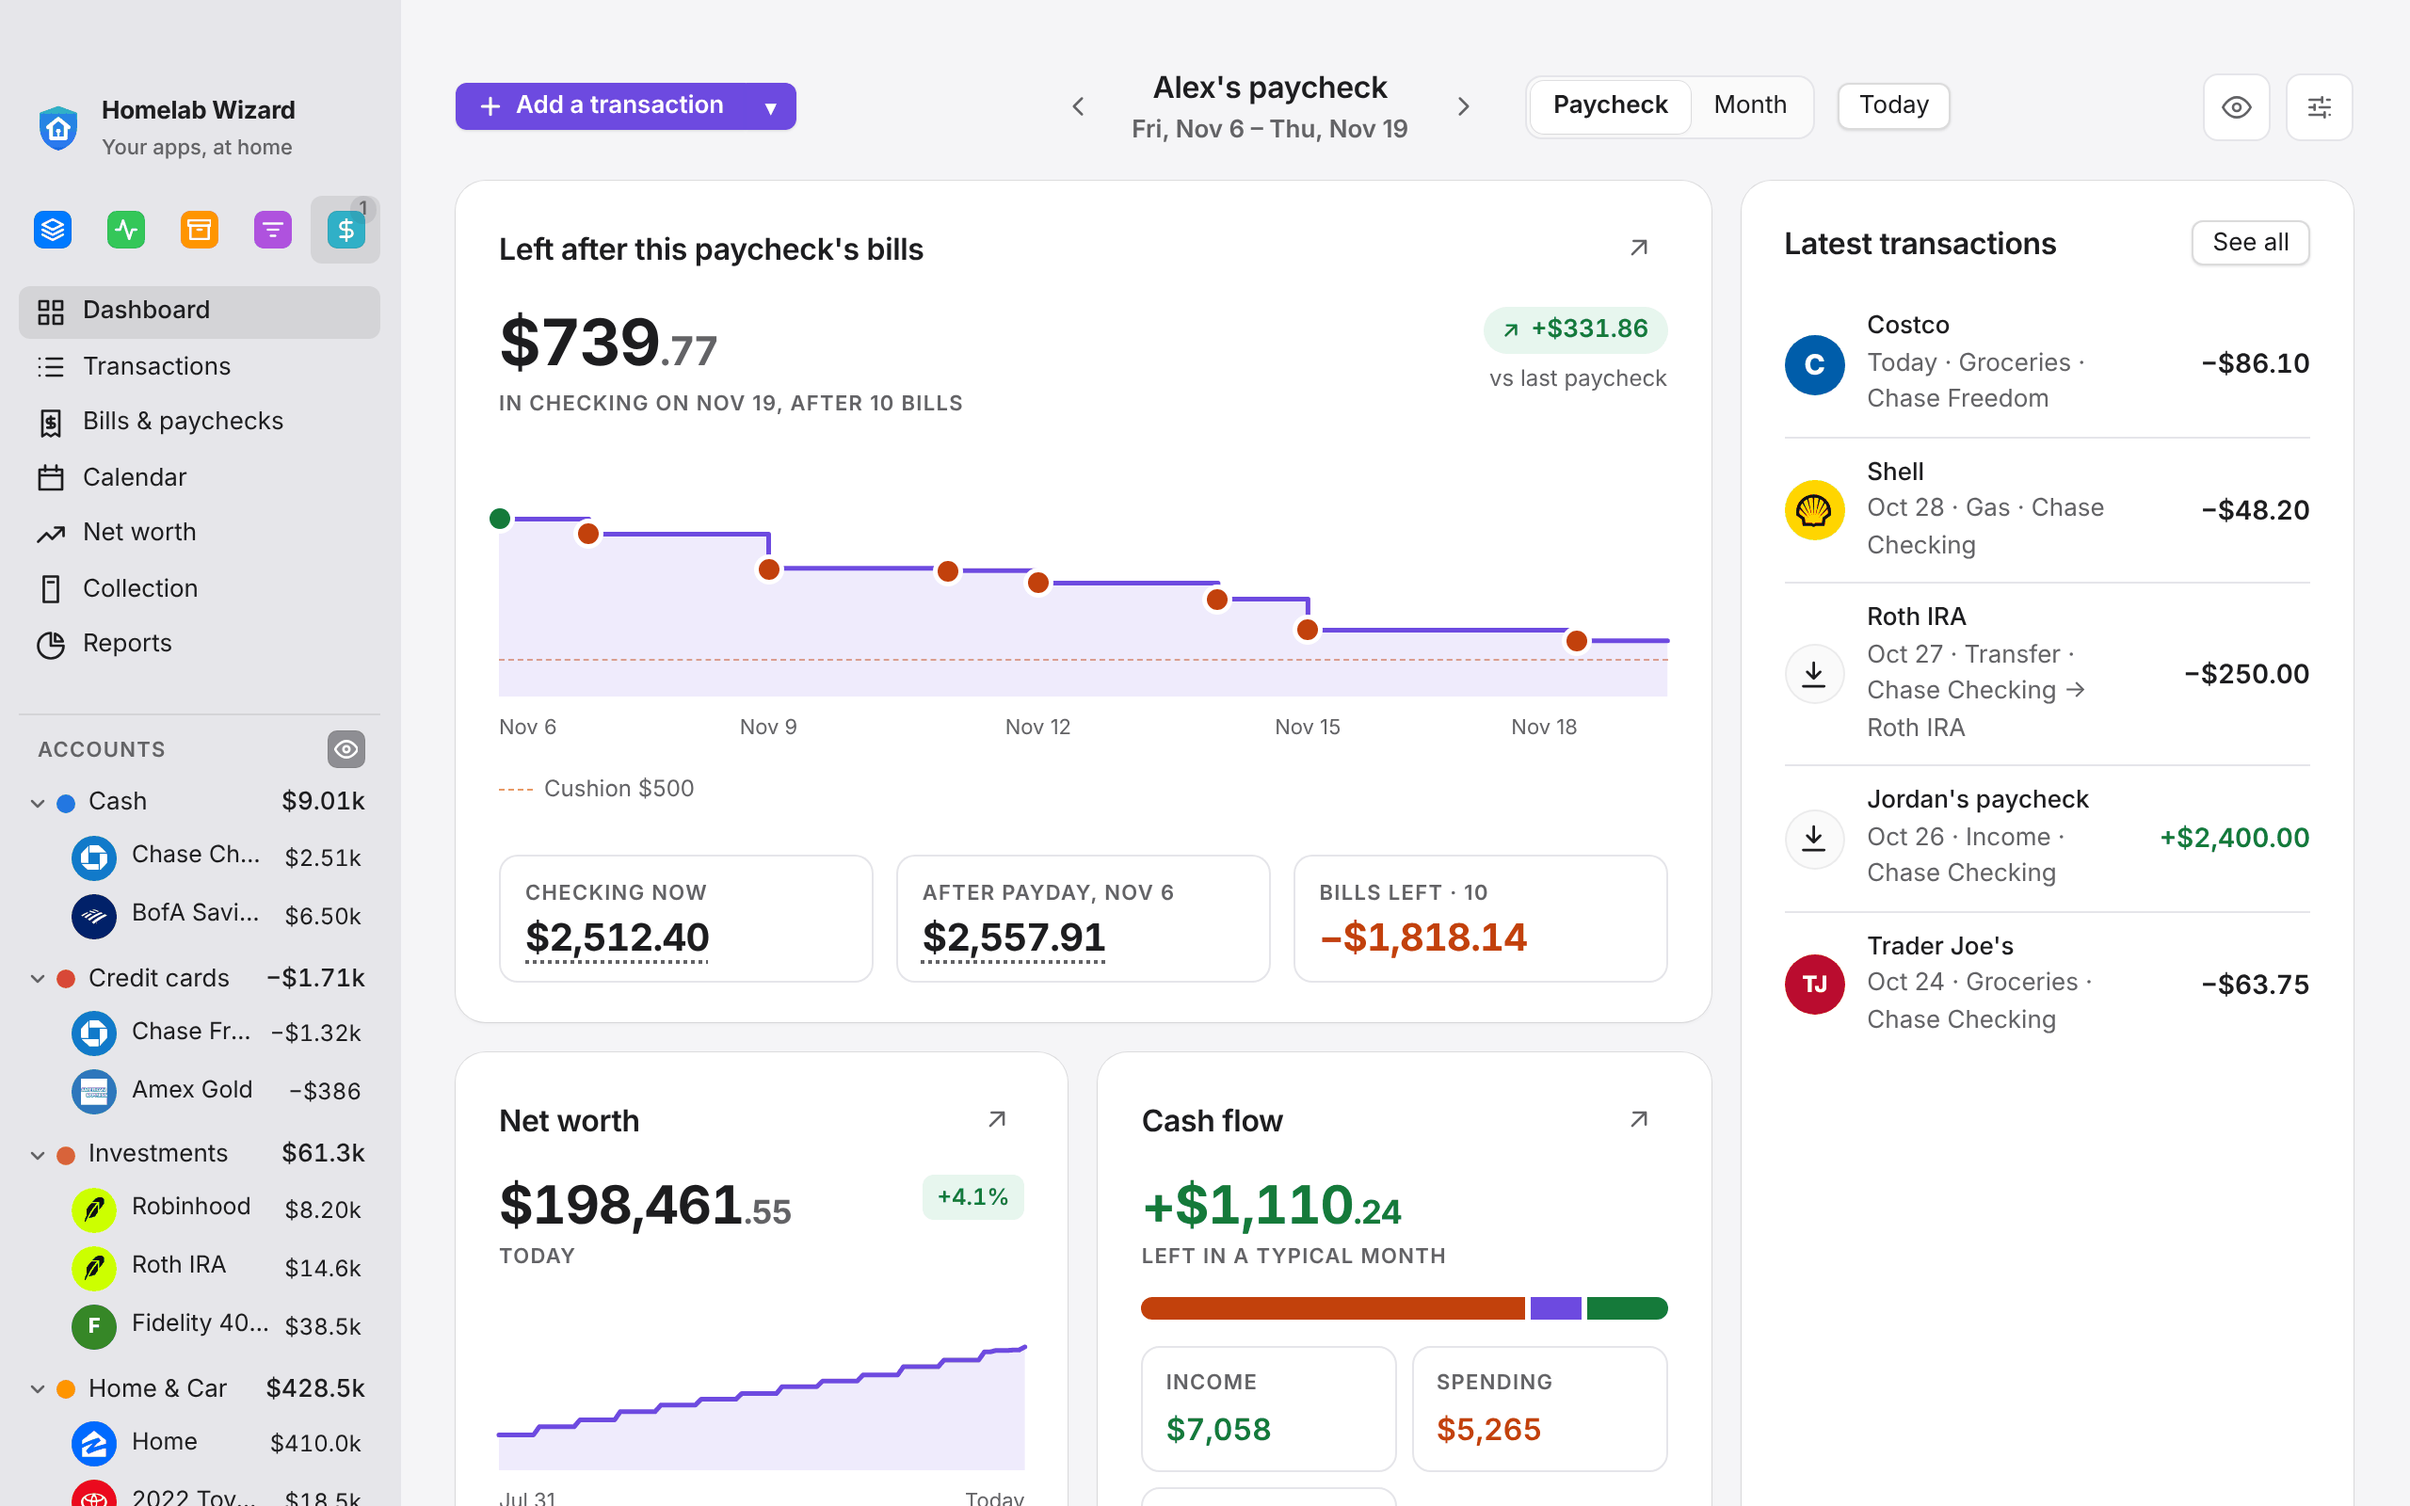
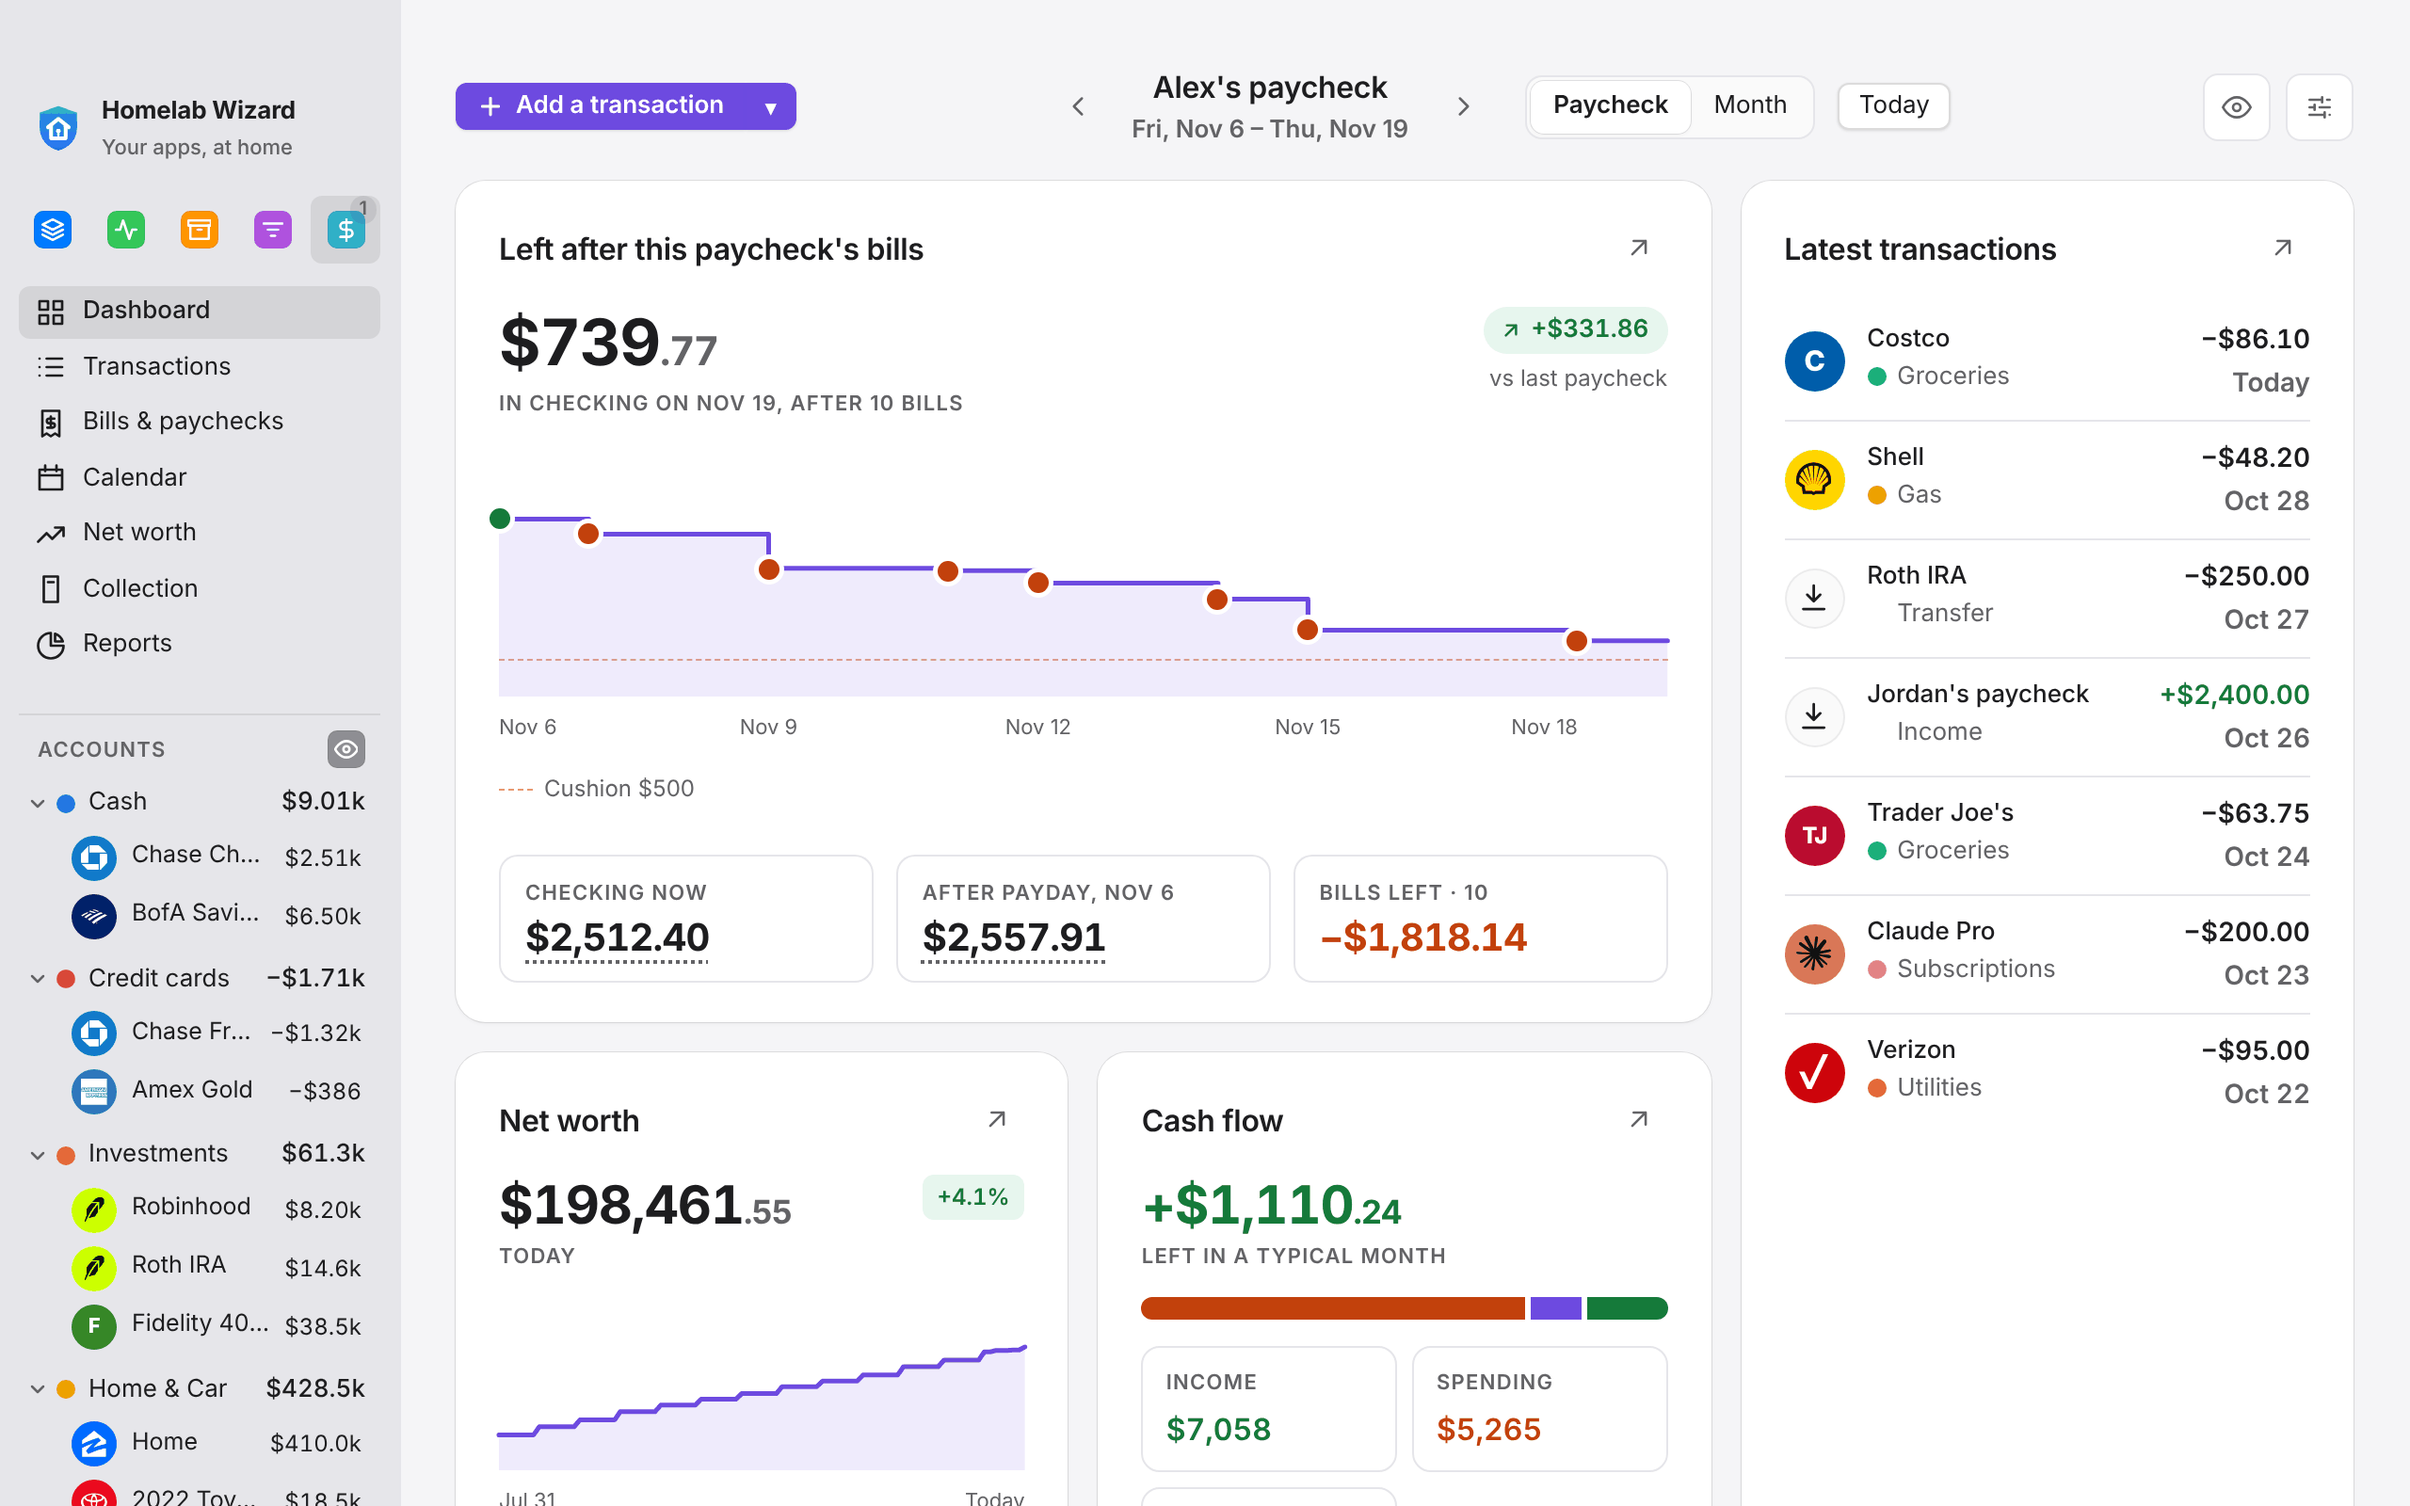
Dashboard: Latest transactions in one-line rows (the category's dot, the day under the amount), nine of them, and its ↗
Claude-Session: https://claude.ai/code/session_01MiSTxseDPUYYgrtQvknXsP

diff --git a/web/dist/app.js b/web/dist/app.js
@@ -15412,9 +15412,32 @@
   function latest(txs, n3 = latestCount) {
     return txs.map((t3, i3) => ({ t: t3, i: i3 })).sort((a3, b2) => b2.t.date.localeCompare(a3.t.date) || b2.i - a3.i).slice(0, n3).map((x3) => x3.t);
   }
-  function TxRow({ t: t3, v: v3, L: L2, edit, end }) {
+  function TxRow({ t: t3, v: v3, L: L2, edit, end, compact: compact2 }) {
     const a3 = L2.account[t3.account];
     const what2 = t3.splits?.length ? t3.splits.map((sp) => sp.category).join(", ") : t3.category || (t3.to ? "Transfer" : "No category");
+    const day3 = t3.date === v3.today ? "Today" : dayShort(t3.date);
+    const amount = /* @__PURE__ */ u3(Amount, { value: t3.amount, sign: t3.amount > 0, tone: t3.amount > 0 && !t3.to ? "in" : "", form: "full", currency: a3?.currency });
+    if (compact2) {
+      return /* @__PURE__ */ u3(
+        Row,
+        {
+          lead: /* @__PURE__ */ u3(TxMark, { t: t3, categories: v3.categories }),
+          title: txTitle(t3, L2),
+          sub: /* @__PURE__ */ u3("span", { class: "fx-txcat", children: [
+            (t3.splits?.length || t3.category) && /* @__PURE__ */ u3(Dot, { color: categoryHue(t3.splits?.length ? t3.splits[0].category : t3.category, v3.categories) }),
+            what2
+          ] }),
+          end,
+          when: /* @__PURE__ */ u3("span", { class: "fx-whenstack", children: [
+            amount,
+            /* @__PURE__ */ u3("span", { class: "fx-sub", children: day3 })
+          ] }),
+          whenPlain: true,
+          onOpen: edit ? () => edit("transaction", t3.id) : void 0,
+          openLabel: edit ? "edit" : void 0
+        }
+      );
+    }
     return /* @__PURE__ */ u3(
       Row,
       {
@@ -15429,10 +15452,10 @@
       }
     );
   }
-  function LatestWidget({ v: v3, L: L2, ledger, edit, all }) {
-    const list = latest(ledger?.transactions || []);
+  function LatestWidget({ v: v3, L: L2, ledger, edit, all, count: count2 = latestCount }) {
+    const list = latest(ledger?.transactions || [], count2);
     if (!list.length) return null;
-    return /* @__PURE__ */ u3(Widget, { title: "Latest transactions", kind: "fx-latest", open: all, seeAll: true, openLabel: "Open Transactions", actions: all && /* @__PURE__ */ u3("button", { type: "button", class: "small", onClick: all, children: "See all" }), children: /* @__PURE__ */ u3(Rows, { kind: "fx-rows", children: list.map((t3) => /* @__PURE__ */ u3(TxRow, { t: t3, v: v3, L: L2, edit }, t3.id)) }) });
+    return /* @__PURE__ */ u3(Widget, { title: "Latest transactions", kind: "fx-latest", open: all, openLabel: "Open Transactions", children: /* @__PURE__ */ u3(Rows, { kind: "fx-rows", children: list.map((t3) => /* @__PURE__ */ u3(TxRow, { t: t3, v: v3, L: L2, edit, compact: true }, t3.id)) }) });
   }
 
   // web/src/finances/Loan.tsx
@@ -18301,7 +18324,7 @@ ${pays}
         { id: "prices", title: "New prices", width: "full", node: /* @__PURE__ */ u3(PricesWidget, { v: v3, L: L2, keep: keep3 }) },
         { id: "averages", title: "Bills' averages", width: "full", node: /* @__PURE__ */ u3(AveragesWidget, { v: v3, L: L2, keep: keep3 }) },
         { id: "now", title: "Left after this paycheck's bills", width: "full", node: /* @__PURE__ */ u3(LeadWidget, { v: v3, L: L2, sel: p3 ? picked : 0, open: openPay }) },
-        { id: "latest", title: "Latest transactions", width: "third", node: !read && /* @__PURE__ */ u3(LatestWidget, { v: v3, L: L2, ledger, edit, all: openTransactions }) },
+        { id: "latest", title: "Latest transactions", width: "third", node: !read && /* @__PURE__ */ u3(LatestWidget, { v: v3, L: L2, ledger, edit, all: openTransactions, count: 9 }) },
         { id: "past", title: "What happened", width: "full", node: read && /* @__PURE__ */ u3(PastWidget, { v: v3, L: L2, past: read, title: month3?.when === "now" ? "So far this month" : void 0, ledger, edit }) },
         { id: "planned", title: "The plan", width: "full", node: month3 && month3.when !== "past" && (() => {
           const from2 = month3.when === "now" ? isoDay(new Date(parseDay(v3.today).getTime() + 864e5)) : month3.start;

diff --git a/web/src/finances/widgets/Latest.tsx b/web/src/finances/widgets/Latest.tsx
@@ -8,6 +8,8 @@ import { Amount } from '../ui/Amount';
 import { Widget } from '../ui/Widget';
 import { TxMark, txTitle } from '../Transactions';
 import { dayShort, type Lookup } from '../money';
+import { Dot } from '../ui/Legend';
+import { categoryHue } from '../hues';
 
 /** How many it lists. */
 export const latestCount = 5;
@@ -18,22 +20,33 @@ export function latest(txs: finance.Transaction[], n = latestCount): finance.Tra
 }
 
 /** One transaction's row, as the Dashboard lists them: its mark, payee, day, category and account, and amount; it opens its form where it may. */
-export function TxRow({ t, v, L, edit, end }: { t: finance.Transaction; v: finance.View; L: Lookup; edit?: (what: 'transaction', id: string) => void; end?: ComponentChildren }) {
+export function TxRow({ t, v, L, edit, end, compact }: { t: finance.Transaction; v: finance.View; L: Lookup; edit?: (what: 'transaction', id: string) => void; end?: ComponentChildren;
+  /** The Dashboard's one-line form (docs/images/redesign/computer-finances.png): the category with its colour under the payee, the day under the amount. */
+  compact?: boolean }) {
   const a = L.account[t.account];
   const what = t.splits?.length ? t.splits.map((sp) => sp.category).join(', ') : t.category || (t.to ? 'Transfer' : 'No category');
+  const day = t.date === v.today ? 'Today' : dayShort(t.date);
+  const amount = <Amount value={t.amount} sign={t.amount > 0} tone={t.amount > 0 && !t.to ? 'in' : ''} form="full" currency={a?.currency} />;
+  if (compact) {
+    return <Row lead={<TxMark t={t} categories={v.categories} />} title={txTitle(t, L)}
+      sub={<span class="fx-txcat">{(t.splits?.length || t.category) && <Dot color={categoryHue(t.splits?.length ? t.splits[0].category : t.category, v.categories)} />}{what}</span>}
+      end={end} when={<span class="fx-whenstack">{amount}<span class="fx-sub">{day}</span></span>} whenPlain
+      onOpen={edit ? () => edit('transaction', t.id) : undefined} openLabel={edit ? 'edit' : undefined} />;
+  }
   return <Row lead={<TxMark t={t} categories={v.categories} />} title={txTitle(t, L)}
     sub={`${t.date === v.today ? 'Today' : dayShort(t.date)} · ${what} · ${t.to ? `${a?.name || t.account} → ${L.account[t.to]?.name || t.to}` : a?.name || t.account}`}
     end={end} when={<Amount value={t.amount} sign={t.amount > 0} tone={t.amount > 0 && !t.to ? 'in' : ''} form="full" currency={a?.currency} />} whenPlain
     onOpen={edit ? () => edit('transaction', t.id) : undefined} openLabel={edit ? 'edit' : undefined} />;
 }
 
-export function LatestWidget({ v, L, ledger, edit, all }: { v: finance.View; L: Lookup; ledger?: finance.Ledger | null; edit?: (what: 'transaction', id: string) => void; all?: () => void }) {
-  const list = latest(ledger?.transactions || []);
+export function LatestWidget({ v, L, ledger, edit, all, count = latestCount }: { v: finance.View; L: Lookup; ledger?: finance.Ledger | null; edit?: (what: 'transaction', id: string) => void; all?: () => void;
+  /** How many (the computer's Dashboard: nine, beside the lead card down two rows). */ count?: number }) {
+  const list = latest(ledger?.transactions || [], count);
   if (!list.length) return null;
   return (
-    <Widget title="Latest transactions" kind="fx-latest" open={all} seeAll openLabel="Open Transactions" actions={all && <button type="button" class="small" onClick={all}>See all</button>}>
+    <Widget title="Latest transactions" kind="fx-latest" open={all} openLabel="Open Transactions">
       <Rows kind="fx-rows">
-        {list.map((t) => <TxRow key={t.id} t={t} v={v} L={L} edit={edit} />)}
+        {list.map((t) => <TxRow key={t.id} t={t} v={v} L={L} edit={edit} compact />)}
       </Rows>
     </Widget>
   );

diff --git a/web/src/finances/Overview.tsx b/web/src/finances/Overview.tsx
@@ -200,7 +200,7 @@ export function Overview({ v, L, sel, pick, add, edit, setSince, keep, ledger, o
         { id: 'prices', title: 'New prices', width: 'full', node: <PricesWidget v={v} L={L} keep={keep} /> },
         { id: 'averages', title: "Bills' averages", width: 'full', node: <AveragesWidget v={v} L={L} keep={keep} /> },
         { id: 'now', title: "Left after this paycheck's bills", width: 'full', node: <LeadWidget v={v} L={L} sel={p ? picked : 0} open={openPay} /> },
-        { id: 'latest', title: 'Latest transactions', width: 'third', node: !read && <LatestWidget v={v} L={L} ledger={ledger} edit={edit} all={openTransactions} /> },
+        { id: 'latest', title: 'Latest transactions', width: 'third', node: !read && <LatestWidget v={v} L={L} ledger={ledger} edit={edit} all={openTransactions} count={9} /> },
         { id: 'past', title: 'What happened', width: 'full', node: read && <PastWidget v={v} L={L} past={read} title={month?.when === 'now' ? 'So far this month' : undefined} ledger={ledger} edit={edit} /> },
         { id: 'planned', title: 'The plan', width: 'full', node: month && month.when !== 'past' && (() => {
           const from = month.when === 'now' ? isoDay(new Date(parseDay(v.today).getTime() + 864e5)) : month.start;

diff --git a/web/dist/style.css b/web/dist/style.css
@@ -1798,6 +1798,9 @@ button.kindrow:focus-visible { outline:2px solid var(--accent); outline-offset:-
   .fx-board.fx-dash > .fx-latest { grid-row:auto; }
 }
 @container (max-width: 600px) { .fx-board.fx-dash { grid-template-columns:minmax(0, 1fr); } .fx-board.fx-dash > .fx-widget { grid-column:auto; } }
+/* Latest transactions' one-line rows (Latest.tsx TxRow compact): the category's dot and name, the day under the amount. */
+.fx-txcat { display:inline-flex; align-items:center; gap:6px; min-width:0; }
+.fx-whenstack { display:flex; flex-direction:column; align-items:flex-end; gap:2px; white-space:nowrap; }
 /* The cards a page took from the Dashboard, above its own (Finances.tsx PageCards). */
 .fx-pagecards { margin-bottom:var(--fin-gap); }
 @container (max-width: 760px) { .fx-widget.span2 { grid-column:auto; } }
